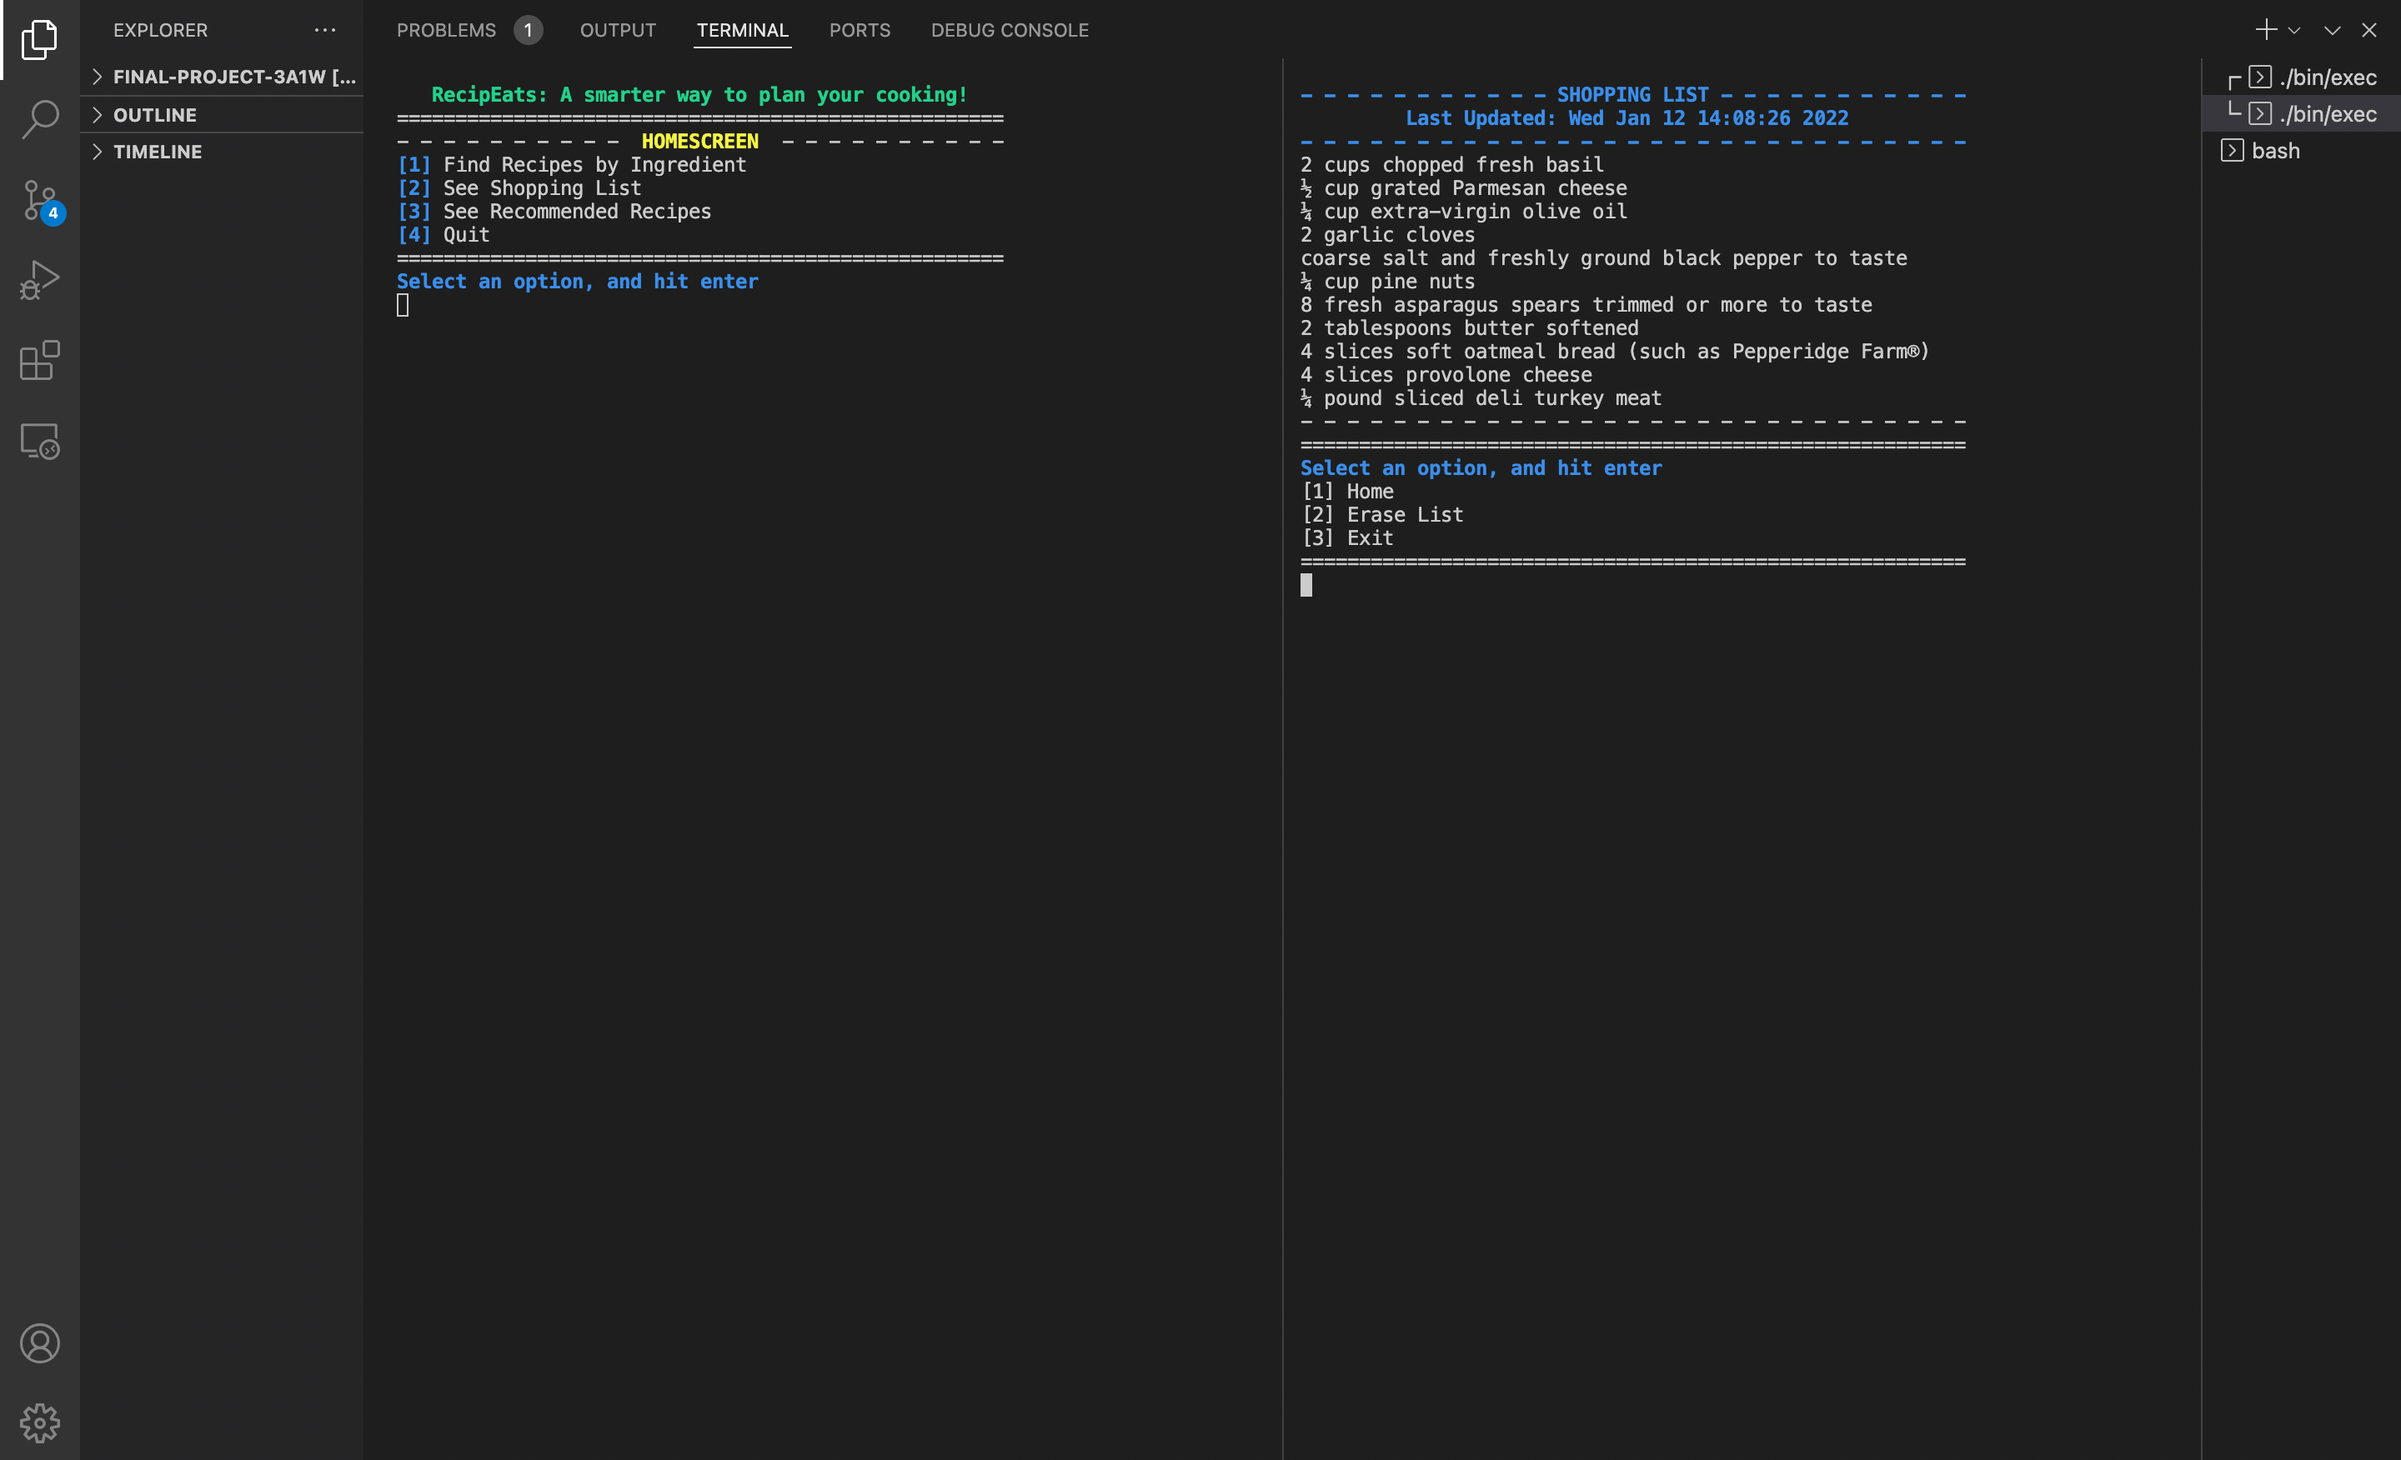
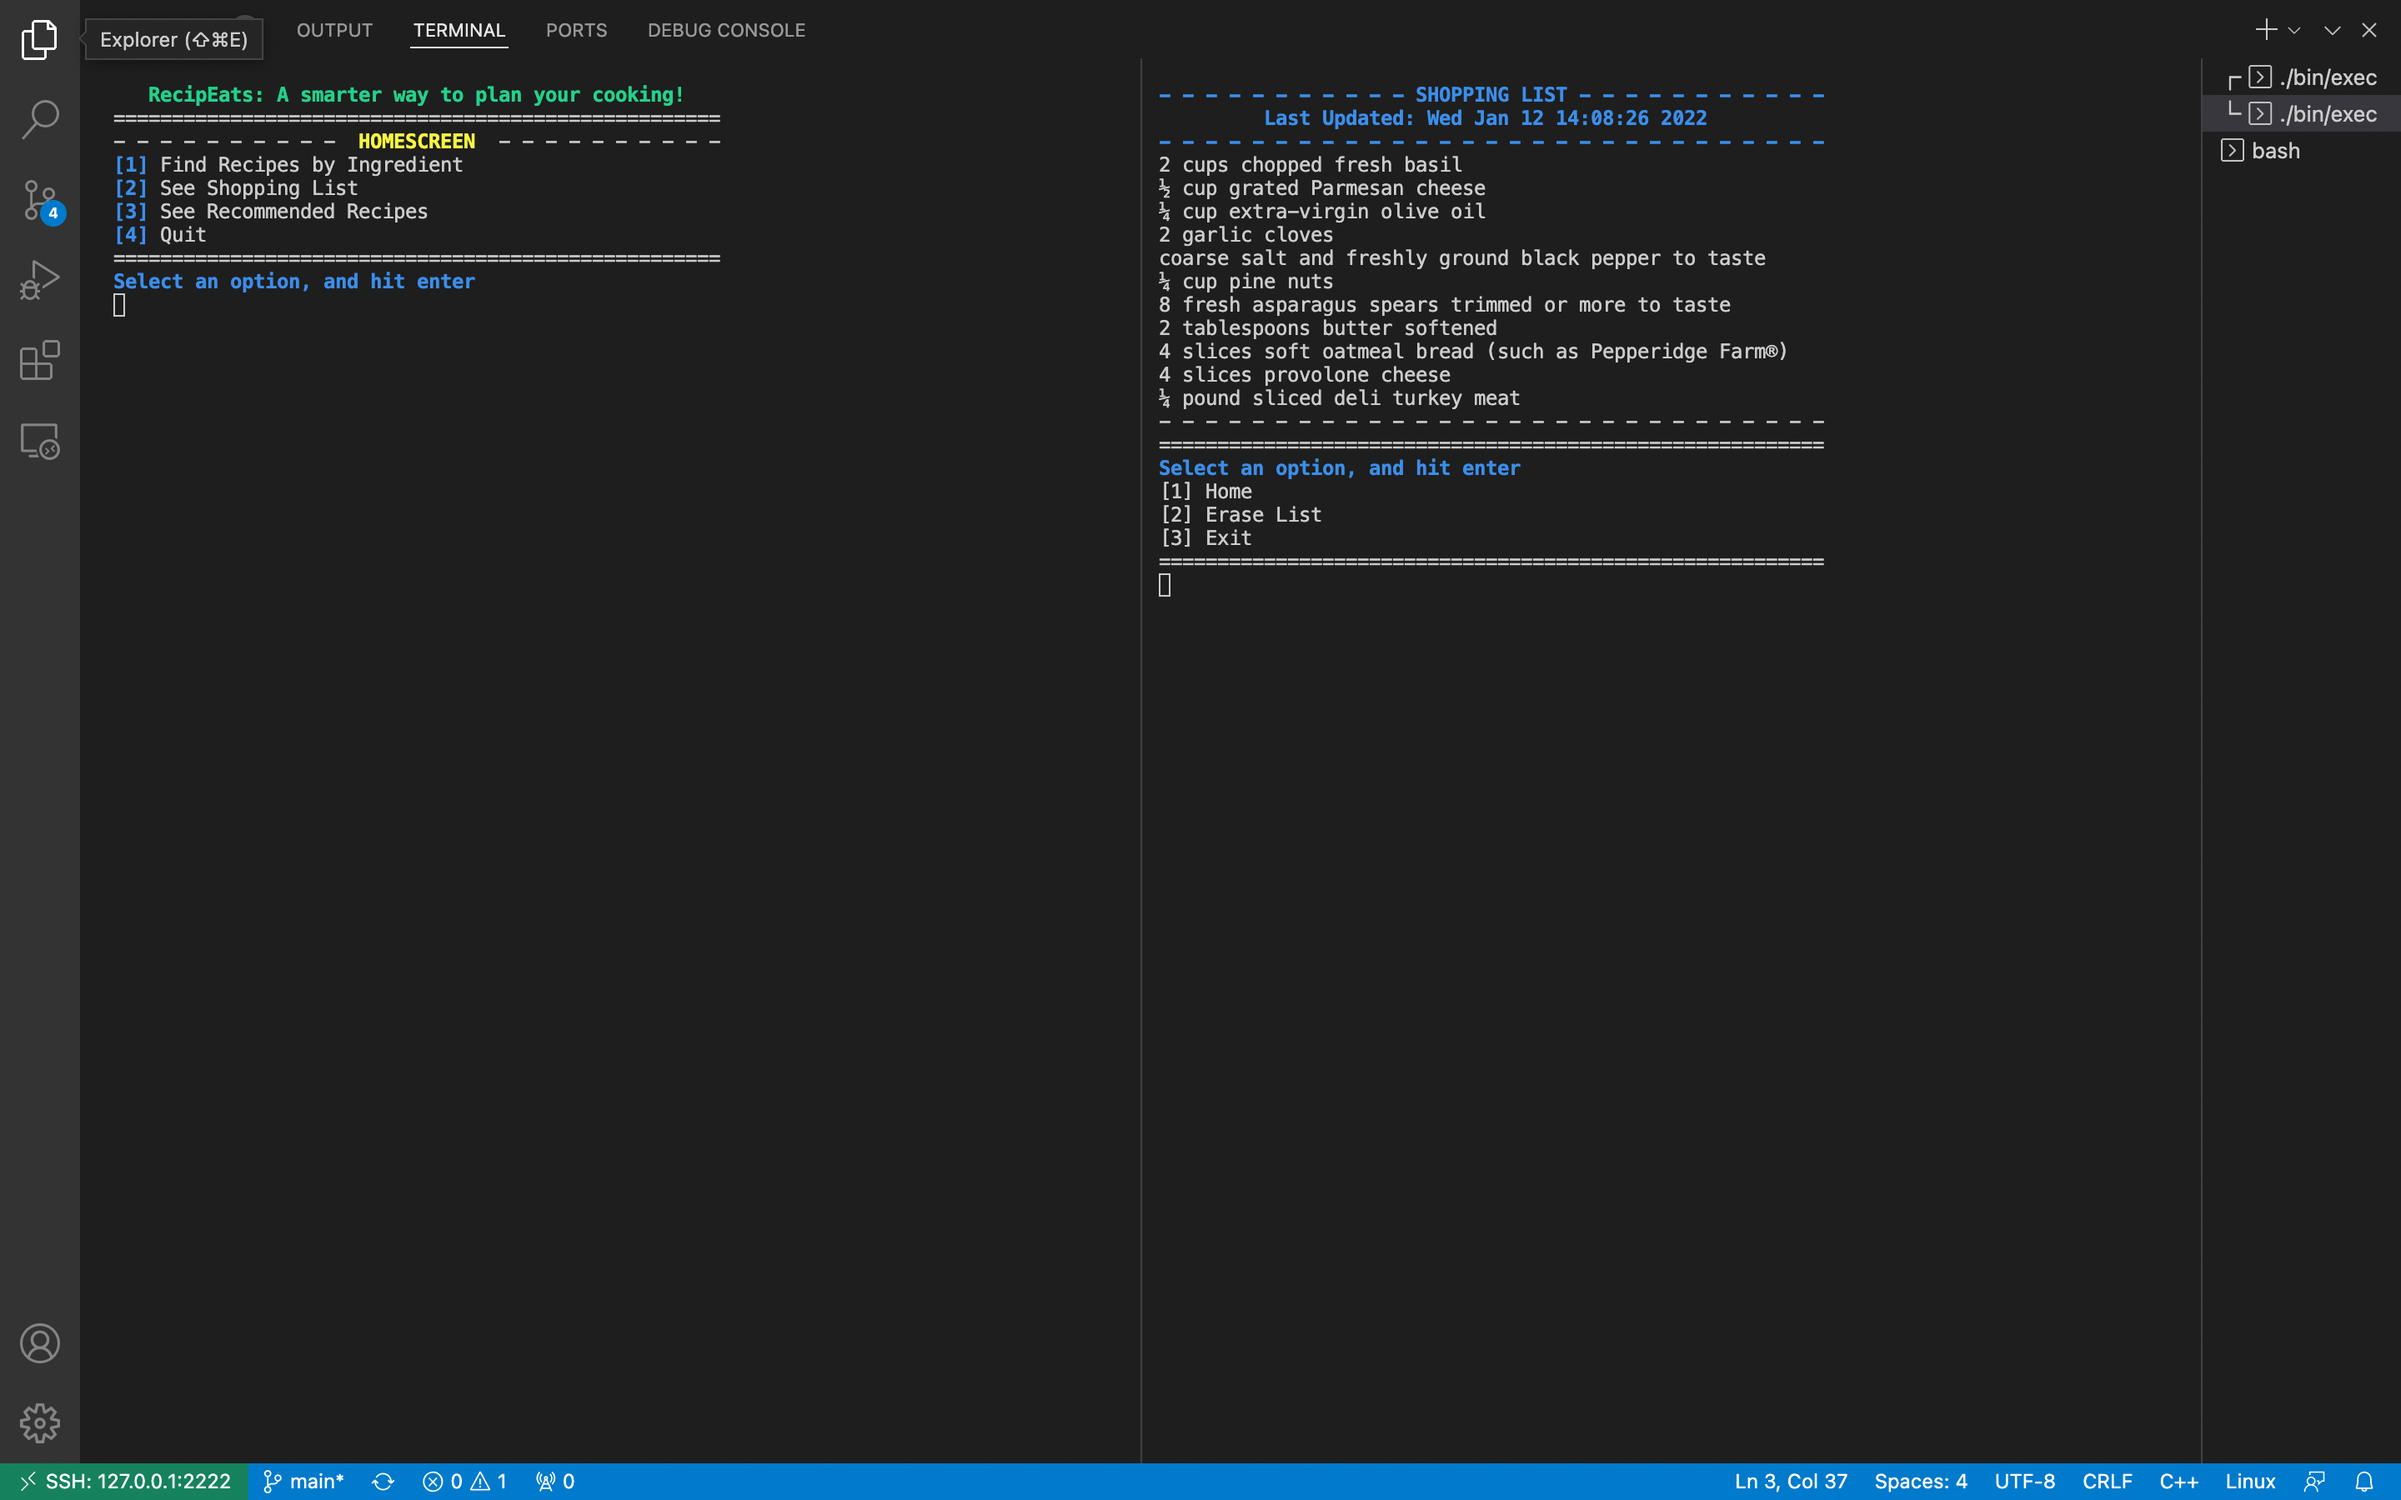
added 2 projects to works page, adjusted footer spacing

diff --git a/src/components/Work.jsx b/src/components/Work.jsx
@@ -28,13 +28,13 @@ function Work() {
       </div>
 
       <div className="projectcard">
-        <h3>Song Share</h3>
+        <h3>RecipEats</h3>
         <div className="row">
         <div className= "col align-items-center">
 
         <div class="laptopcontainer">
   <div class="laptop">
-    <div class="laptop__screen"><img src= {require ("./resources/songshare.png")} width="1600" height="1000" alt="Screen"/></div>
+    <div class="laptop__screen"><img src= {require ("./resources/recipeats.png")} width="1600" height="1000" alt="Screen"/></div>
     <div class="laptop__bottom">
       <div class="laptop__under"></div>
     </div>
@@ -44,7 +44,28 @@ function Work() {
         </div>
         </div>
         <div className="description">
-          <p>A dapp built on the Rinkeby ethereum testnet to exchange and browse music reccomendations.</p>
+          <p>A terminal app to find recipes to cook based on ingredients you have in your fridge.  Utilizes webscraping to find recipes and text file manipulation to maintain a shopping list that lasts beyond the runtime of the program.  Written in pure C++.  </p>
+        </div>
+      </div>
+
+      <div className="projectcard">
+        <h3>Mountain Path Finder</h3>
+        <div className="row">
+        <div className= "col align-items-center">
+
+        <div class="laptopcontainer">
+  <div class="laptop">
+    <div class="laptop__screen"><img src= {require ("./resources/pathfinder.png")} width="1600" height="1000" alt="Screen"/></div>
+    <div class="laptop__bottom">
+      <div class="laptop__under"></div>
+    </div>
+    <div class="laptop__shadow"></div>
+  </div>
+</div>
+        </div>
+        </div>
+        <div className="description">
+          <p>Takes an array of data representing elevations in a given region and generates a grayscale ppm image representing the area's elevations.  On top of that image, the program will highlight the path of least change of elevation in green, which is found using the greedy algorith.  Red lines represent "failed" paths.</p>
         </div>
       </div>
   

diff --git a/src/components/styling/Home.css b/src/components/styling/Home.css
@@ -16,7 +16,7 @@
     background: #F9F9F9;
     box-shadow: 20px 20px 4px 1px rgba(0, 0, 0, 0.801);
     border: 1.5px inset black;
-    margin-bottom: 90px;
+    margin-bottom: 95px;
 }
 
 .profilepic {

diff --git a/src/components/styling/Footer.css b/src/components/styling/Footer.css
@@ -15,5 +15,4 @@
     justify-content: center;
     align-items: center;
     height: 100px;
-    margin-bottom: 5px;
 }
